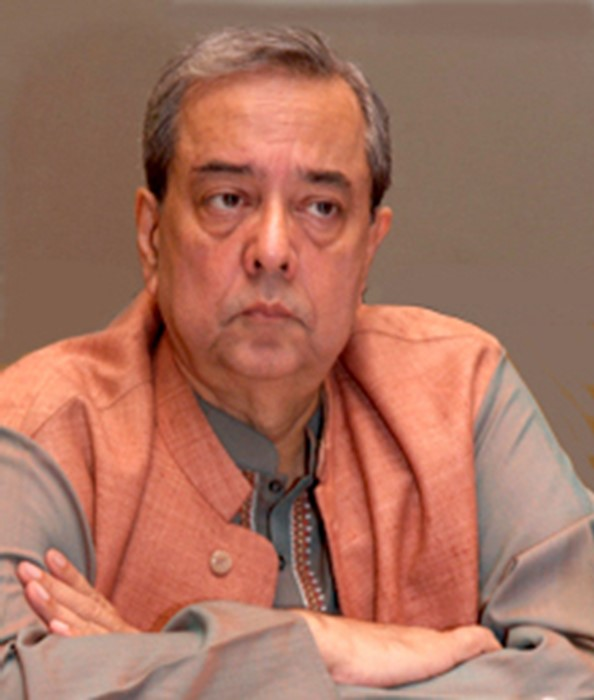
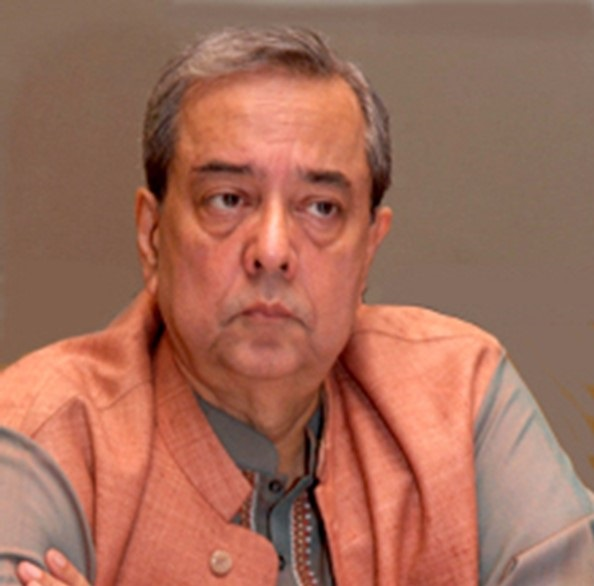
final for sent

diff --git a/js/speakers.js b/js/speakers.js
@@ -102,6 +102,15 @@ export function loadSpeakers() {
 
 
 function groupSpeakersByCategory(speakers) {
+    const customCategoryOrder = [
+        "Keynote Speaker",
+        "Inaugural",
+        "Panelist", 
+        "Verbal Presenter", 
+        "Poster Presenter", 
+    ];
+
+    // Group speakers by category
     const grouped = speakers.reduce((acc, speaker) => {
         const category = speaker.ParticipantCatagory || 'Other';
         if (!acc[category]) {
@@ -111,17 +120,35 @@ function groupSpeakersByCategory(speakers) {
         return acc;
     }, {});
 
-    const categories = Object.keys(grouped);
-    const sortedCategories = categories.filter(category => category !== 'Other').sort((a, b) => a.localeCompare(b));
-    sortedCategories.push('Other');
+    // Get all unique categories and combine custom ones with others
+    const groupedCategories = Object.keys(grouped);
+    
+    // Sort predefined categories first
+    const sortedCategories = customCategoryOrder.concat(
+        groupedCategories.filter(category => !customCategoryOrder.includes(category))
+            .sort() // Sort any new categories alphabetically
+    );
 
     const sortedGrouped = sortedCategories.reduce((acc, category) => {
-        grouped[category]?.sort((a, b) => a.Name.localeCompare(b.Name));
+        // Sort speakers in the category by serial number first, then alphabetically
+        grouped[category]?.sort((a, b) => {
+            const serialA = a.SerialNumber ? parseInt(a.SerialNumber, 10) : Infinity; // Fallback to Infinity if SerialNumber is not available
+            const serialB = b.SerialNumber ? parseInt(b.SerialNumber, 10) : Infinity; // Same for b
+
+            if (serialA !== serialB) {
+                return serialA - serialB; // Sort by serial number if both exist
+            } else {
+                return a.Name.localeCompare(b.Name); // If serial numbers are the same or missing, fallback to alphabetically
+            }
+        });
+
         acc[category] = grouped[category] || [];
         return acc;
     }, {});
+
     return sortedGrouped;
 }
+
 
 function getSessions(sessionTitle, day, time, venue) {
     const titles = sessionTitle.split(',');

diff --git a/css/styles.css b/css/styles.css
@@ -189,33 +189,30 @@ i {
 
 /* List items inside update */
 .update li {
+    width: 100%;
     font-size: 0.8rem;
     margin-bottom: 12px;
     color: #555;
     opacity: 0; /* Start with items hidden */
-    animation: fadeInSwap 1s forwards 5s infinite, blink 0.75s step-end infinite; 
+    animation: fadeInOut 2s ease-in-out infinite;
 }
 
-/* Fade-in swap animation */
-@keyframes fadeInSwap {
+/* Smooth fade-in and fade-out effect */
+@keyframes fadeInOut {
     0% {
-        opacity: 0;
-        transform: translateX(20px); /* Start below the original position */
+        opacity: 1;
+    }
+    25% {
+        opacity: 1; /* Fade in */
     }
     50% {
-        opacity: 1;
-        transform: translateX(0); /* End in the original position */
+        opacity: 1; /* Hold fully visible */
+    }
+    75% {
+        opacity: 1; /* Fade out */
     }
     100% {
         opacity: 0;
-        transform: translateX(-20px); /* Fade out and slide upwards */
-    }
-}
-
-/* Cursor blink effect */
-@keyframes blink {
-    50% {
-        border-color: transparent;
     }
 }
 

diff --git a/index.html b/index.html
@@ -13,11 +13,8 @@
             <ul>
                 <div class="top">
                     <li> Global South Academic Conclave</li>
-                    <p>WASH and Climate</p> 
+                    <p style="font-size: 0.8rem;">WASH and Climate</p> 
                 </div>
-                <li data-section="home" class="active">
-                    <i class="fas fa-bars"></i>
-                </li>
             </ul>
         </header>
         
